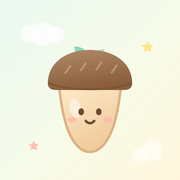
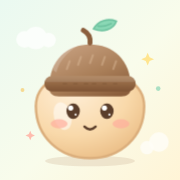
도토리 아이콘을 동글통통 캐릭터로 교체 + 가짜 샘플 기록 제거
- icon.svg: 볼 발그레·통통한 몸통·아기 모자·반짝이 눈의 도토리 캐릭터로 새로 그림
- icon-192/512/180.png: 새 icon.svg 기준으로 다시 생성
- index.html: 로고·카드 아이콘·포스팅 스탬프(#i-acorn)를 동글통통 도토리로 교체,
  기본값으로 들어가던 가짜 샘플 기록 2건 제거(실제 수치와 비교돼 증감률이 왜곡되던 문제)
- sw.js: 캐시 버전 dotori-v2 (새 아이콘·HTML이 바로 반영되도록)

diff --git a/index.html b/index.html
@@ -584,12 +584,15 @@
 <svg aria-hidden="true" focusable="false" style="position:absolute;width:0;height:0;overflow:hidden">
   <defs>
     <symbol id="i-acorn" viewBox="0 0 24 24">
-      <path d="M5.2 10.1c0-3.5 3-6.1 6.8-6.1s6.8 2.6 6.8 6.1" fill="none" stroke="currentColor" stroke-width="1.8" stroke-linecap="round"/>
-      <path d="M4.4 10.2h15.2" fill="none" stroke="currentColor" stroke-width="1.8" stroke-linecap="round"/>
-      <path d="M6.9 12.3c.8 4.4 2.7 7.6 5.1 7.6s4.3-3.2 5.1-7.6" fill="none" stroke="currentColor" stroke-width="1.8" stroke-linecap="round" stroke-linejoin="round"/>
-      <path d="M12 4V2.3" fill="none" stroke="currentColor" stroke-width="1.8" stroke-linecap="round"/>
-      <circle cx="10" cy="15" r=".9" fill="currentColor"/><circle cx="14" cy="15" r=".9" fill="currentColor"/>
-      <path d="M10.8 17.4c.7.7 1.7.7 2.4 0" fill="none" stroke="currentColor" stroke-width="1.5" stroke-linecap="round"/>
+      <!-- 동글통통 도토리 캐릭터: 아기 모자(채움) + 통통 몸통 + 반짝이 눈 + 발그레 볼 -->
+      <path d="M3.4 9.9c0-3.6 3.9-5.9 8.6-5.9s8.6 2.3 8.6 5.9a1.3 1.3 0 0 1-1.3 1.3H4.7a1.3 1.3 0 0 1-1.3-1.3z" fill="currentColor"/>
+      <path d="M12 3.9c.2-1.1-.3-1.9-1-2.3" fill="none" stroke="currentColor" stroke-width="1.7" stroke-linecap="round"/>
+      <path d="M4.4 10.5c-.4 3.2.7 5.9 2.4 7.5 1.4 1.3 3.2 2 5.2 2s3.8-.7 5.2-2c1.7-1.6 2.8-4.3 2.4-7.5" fill="none" stroke="currentColor" stroke-width="1.8" stroke-linecap="round"/>
+      <ellipse cx="9.2" cy="14.3" rx="1.2" ry="1.3" fill="currentColor"/>
+      <ellipse cx="14.8" cy="14.3" rx="1.2" ry="1.3" fill="currentColor"/>
+      <path d="M10.9 16.3h2.2a1.1 1.1 0 0 1-2.2 0z" fill="currentColor"/>
+      <ellipse cx="6.9" cy="16" rx=".9" ry=".5" fill="currentColor" opacity=".35"/>
+      <ellipse cx="17.1" cy="16" rx=".9" ry=".5" fill="currentColor" opacity=".35"/>
     </symbol>
     <symbol id="i-trend" viewBox="0 0 24 24">
       <path d="M3.5 18.5 9 12l3.6 3.4L20 7" fill="none" stroke="currentColor" stroke-width="2" stroke-linecap="round" stroke-linejoin="round"/>
@@ -1297,14 +1300,15 @@
     { key:'insta',    label:'인스타 팔로워', short:'팔로워', unit:'명', color:'#B08A6A', tint:'cream' }
   ];
 
-  const SAMPLE = [
-    { id:'sample-1', date:'2026-11-01', blog:12480, neighbor:842, adpost:18600, insta:1310, sample:true },
-    { id:'sample-2', date:'2026-11-15', blog:13760, neighbor:867, adpost:24100, insta:1362, sample:true }
-  ];
-
+  /* 가짜 샘플 기록은 두지 않습니다 — 화면에는 data.json(자동)과 직접 입력한 기록만 보여요 */
   let records = readLS(KEY.rec, null);
   if (!Array.isArray(records)) {
-    records = SAMPLE.map(r => Object.assign({}, r));
+    records = [];
+    writeLS(KEY.rec, records, true);
+  }
+  /* 예전 버전이 넣어 둔 샘플 기록은 한 번 걷어냅니다 (실제 수치와 비교돼 증감률이 왜곡되던 원인) */
+  if (records.some(r => r && r.sample)) {
+    records = records.filter(r => !(r && r.sample));
     writeLS(KEY.rec, records, true);
   }
   const sortRecords = () => records.sort((a, b) => String(a.date).localeCompare(String(b.date)));

diff --git a/sw.js b/sw.js
@@ -1,5 +1,5 @@
 /* 도토리하루 매니저 · 오프라인 캐시 (https 에서만 동작) */
-const CACHE = 'dotori-v1';
+const CACHE = 'dotori-v2';
 const ASSETS = ['./', './index.html', './manifest.json', './icon-180.png', './icon-192.png', './icon-512.png'];
 
 self.addEventListener('install', event => {
